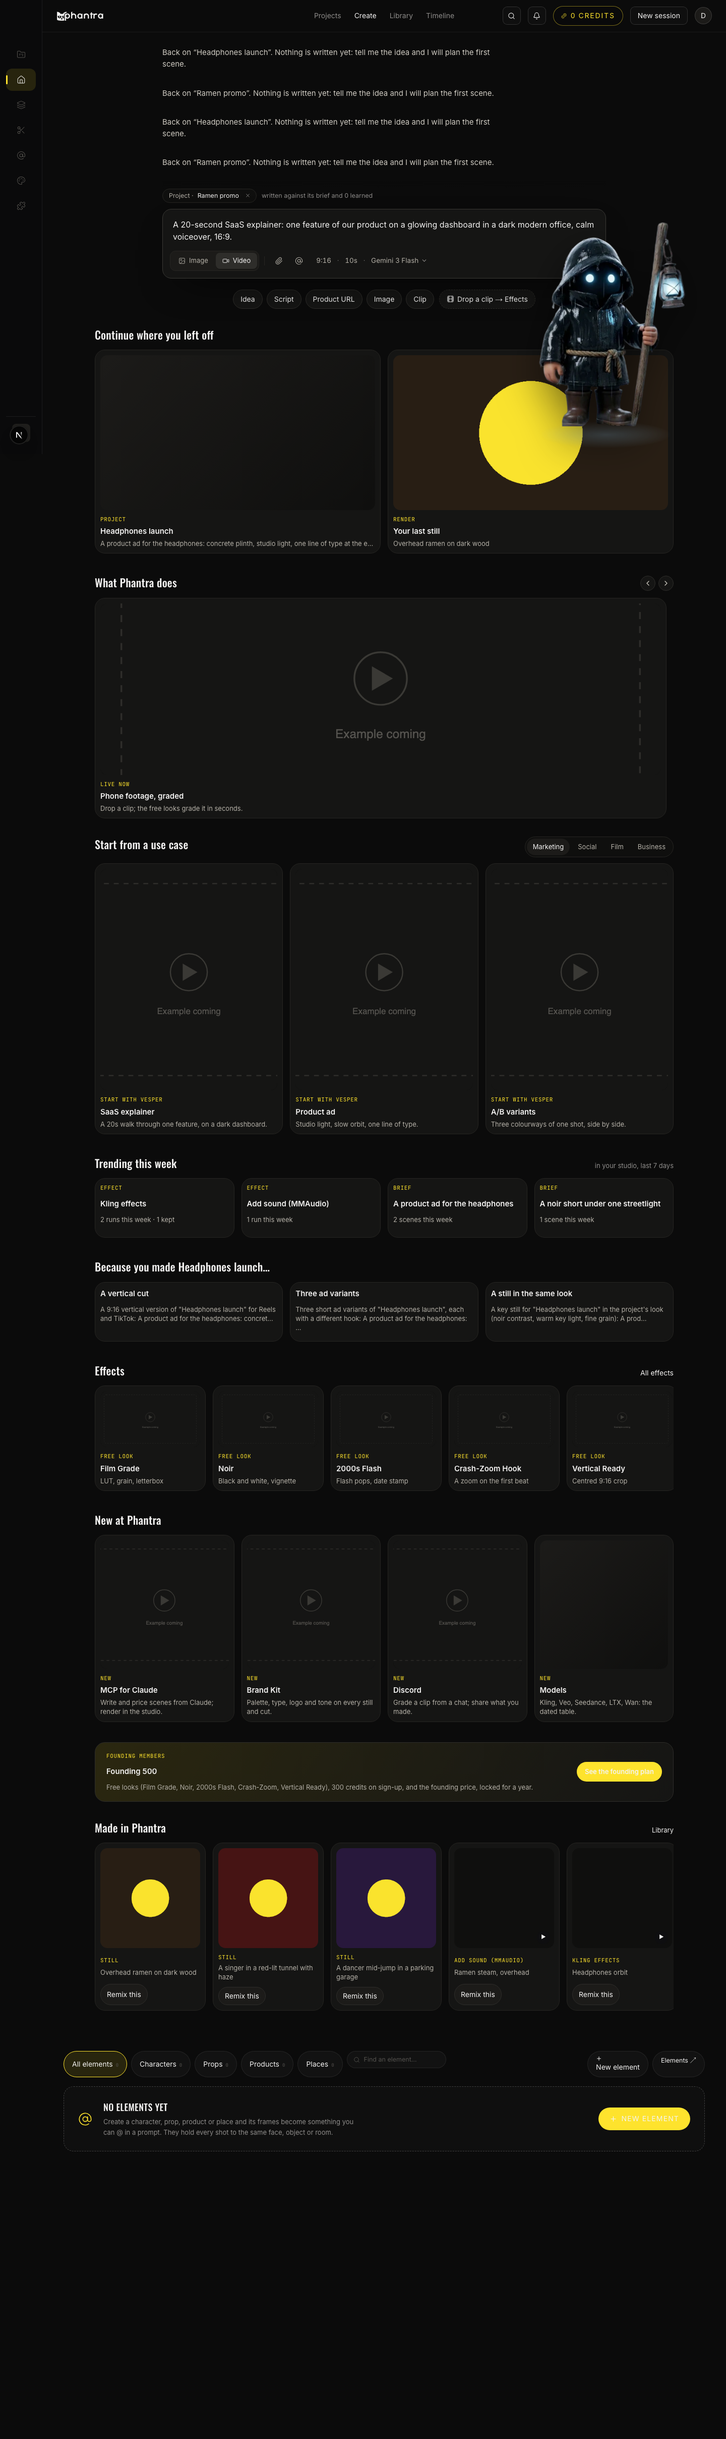
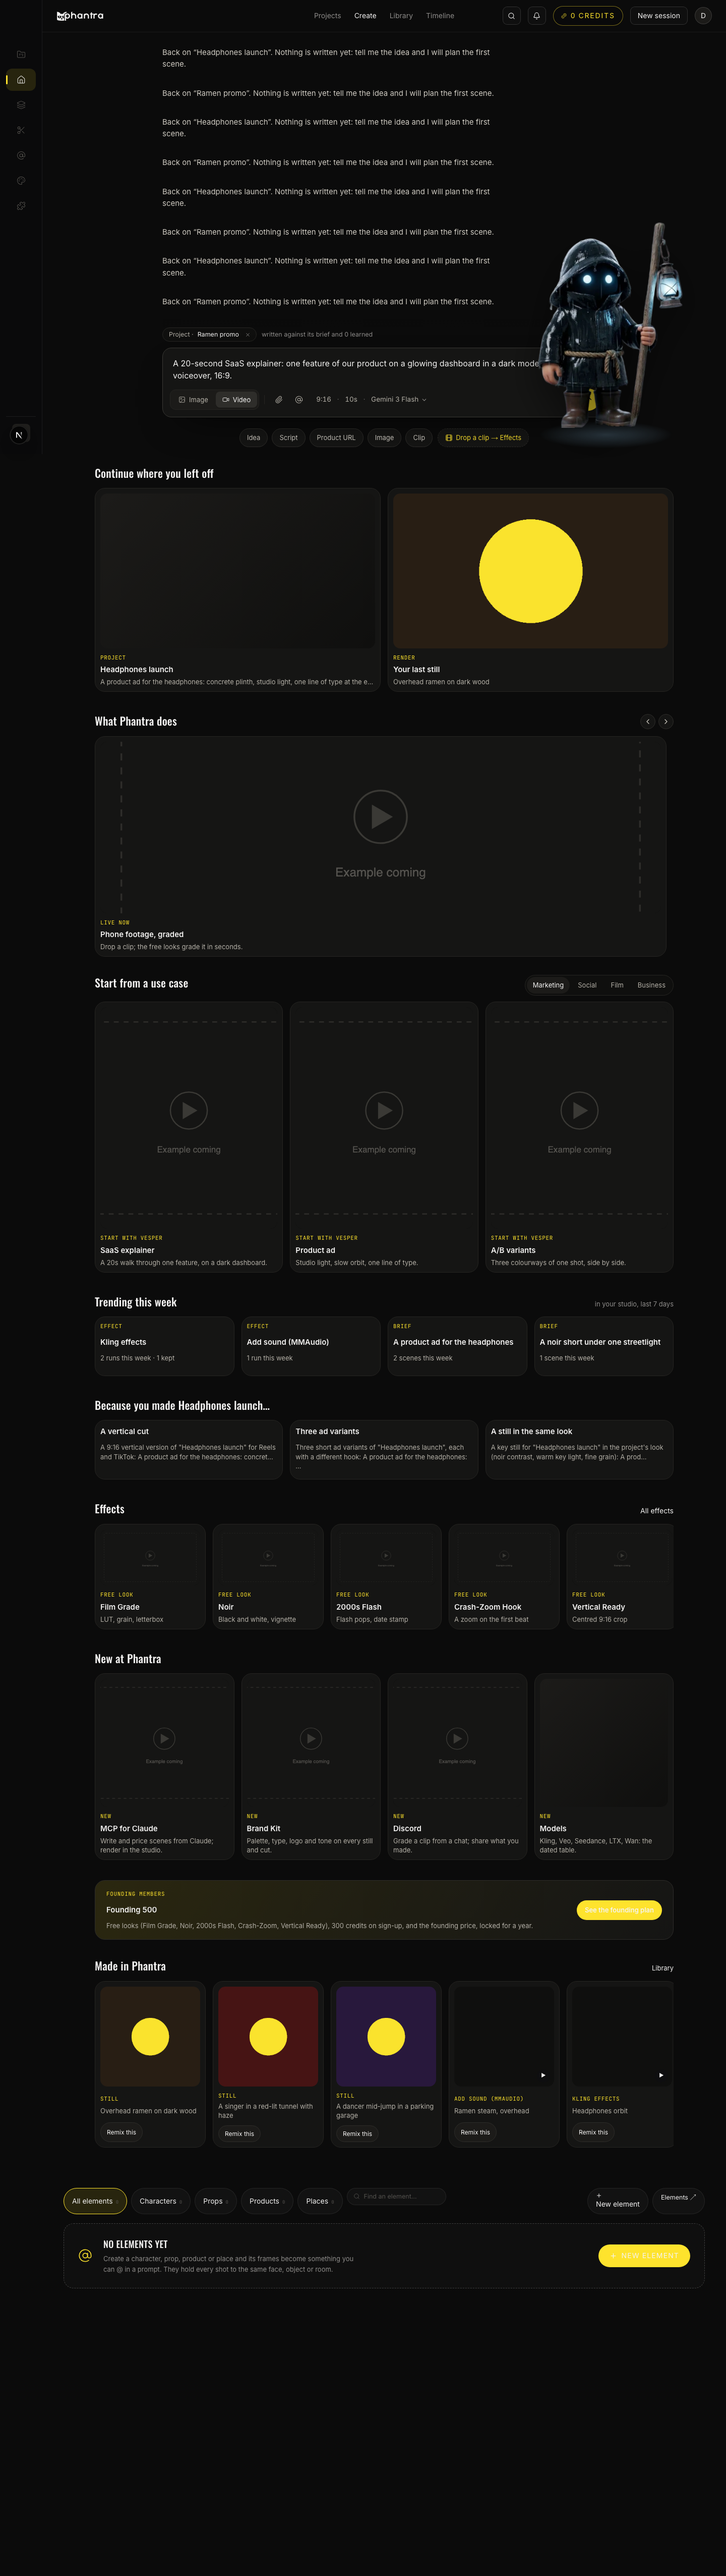
Create page v2: the task file's As built, the Remix button past the shell's rule, stream done
The shell's .zps button { color: inherit } outranked one class, so on a
kit card Remix wore the kit's dark text on a dark pill; the v2 buttons
use two classes and a kit card's Remix wears the kit's primary. Progress
copy ticked, lock removed, screenshots retaken.

diff --git a/web/src/components/studio/create-v2/create-v2.css b/web/src/components/studio/create-v2/create-v2.css
@@ -70,8 +70,8 @@
   flex-wrap: wrap;
   gap: 8px;
 }
-.cv2-chip,
-.cv2-drop {
+.cv2 .cv2-chip,
+.cv2 .cv2-drop {
   display: inline-flex;
   align-items: center;
   gap: 6px;
@@ -86,12 +86,12 @@
   text-decoration: none;
   transition: border-color var(--t), color var(--t), background var(--t);
 }
-.cv2-chip:hover,
-.cv2-drop:hover {
+.cv2 .cv2-chip:hover,
+.cv2 .cv2-drop:hover {
   border-color: var(--edge-hi);
   color: var(--text);
 }
-.cv2-drop {
+.cv2 .cv2-drop {
   border-style: dashed;
   color: var(--signal-hi);
 }
@@ -131,7 +131,7 @@
   display: inline-flex;
   gap: 6px;
 }
-.cv2-arrows button {
+.cv2 .cv2-arrows button {
   width: 30px;
   height: 30px;
   border-radius: var(--rp);
@@ -154,7 +154,7 @@
   background: var(--well);
   border: 1px solid var(--edge-lo);
 }
-.cv2-tabs button {
+.cv2 .cv2-tabs button {
   border: 0;
   background: none;
   color: var(--bone-2);
@@ -164,7 +164,7 @@
   border-radius: var(--rp);
   cursor: pointer;
 }
-.cv2-tabs button[aria-selected="true"] {
+.cv2 .cv2-tabs button[aria-selected="true"] {
   background: var(--raise);
   color: var(--text);
 }
@@ -301,7 +301,10 @@
   place-items: center;
   font-size: 11px;
 }
-.cv2-remix {
+/* `.cv2 .cv2-remix`, not `.cv2-remix`: the shell's `.zps button { color:
+   inherit }` outranks one class, and on a kit card the button then wore
+   the kit's dark text on its dark pill (2026-10-22) */
+.cv2 .cv2-remix {
   justify-self: start;
   padding: 6px 12px;
   border-radius: var(--rp);
@@ -312,9 +315,14 @@
   font-size: 12px;
   cursor: pointer;
 }
-.cv2-remix:hover {
+.cv2 .cv2-remix:hover {
   border-color: var(--signal);
   color: var(--signal-hi);
+}
+.cv2 .cv2-card.kit .cv2-remix {
+  background: var(--kit-primary, var(--raise));
+  border-color: var(--kit-primary, var(--edge));
+  color: var(--kit-background, var(--text));
 }
 
 /* the brand kit badge: a card with a kit previews in the kit's roles */

diff --git a/docs/tasks/task-create-page-v2.md b/docs/tasks/task-create-page-v2.md
@@ -1,0 +1,103 @@
+# Task: the Create page, v2 (group 4 of `task-overnight-2026-10-22.md`)
+
+**Mike's call (2026-10-22):** restructure `/studio` along Runway / Higgsfield lines, keep a
+**Trending this week** row, a **personalized row** and a **brand kit badge**, and put **no prices on
+any Create page card** (the priced card before a spend still shows its price). Everything behind a
+flag, off by default, no renders, no spend.
+
+Built overnight on `claude/overnight-create-page`; "As built" at the end. Nothing rendered or spent.
+
+## What it is
+
+Behind the `create_v2` capability (`GET /api/capabilities`; `PHANTRA_CREATE_V2=1` on the
+deployment turns it on, the `DEV_TOOLS` shape), `/studio` is, top to bottom:
+
+1. **The Vesper bar first**: the composer box exactly as it is, with input chips under it
+   (Idea · Script · Product URL · Image · Clip) that focus or pre-fill the box, attach a photo or open
+   the effects door, and a "Drop a clip → Effects" affordance beside them.
+2. **Continue where you left off**: the newest project and the newest render, from the lists the
+   Projects page and the Library already read; hidden on a first visit.
+3. **A launch carousel** of live features only (graded phone footage, a vertical cut, an ad from a
+   link); no "coming soon".
+4. **Use-case tabs** Marketing · Social · Film · Business, three cards each; a card fills the box with
+   a brief and focuses it, never sends.
+5. **Trending this week**: `GET /api/trending`, this account's own week.
+6. **Because you made <project>…**: three next things from the newest project's brief and look.
+7. **The effects strip**: the six free looks (group 2's names) and the first six live effects off the
+   table; "All effects" opens the Effects tab when `effects_tab` is on, else the composer's gallery.
+8. **New at Phantra**: MCP for Claude, Brand Kit, Discord, Models.
+9. **One Founding 500 banner**, its numbers placeholders in `FOUNDING_500` (`web/src/lib/create-v2.ts`).
+10. **Made in Phantra**: the account's renders (starred first) with **Remix this**: a still is attached
+    to the box with "Remix this: <prompt>", a clip opens the effects gallery on it.
+
+With the flag off the page is the component tree it was: the one change to `page.tsx` is a
+`{caps.create_v2 === true ? <CreateV2 …/> : null}` branch between the composer and the elements
+shelf, which `web/tests/create-v2.test.mjs` pins (imported once, tested once, drawn once, nothing
+else of it in the file, no send inside the branch).
+
+## Files
+
+- `app/api.py`: the `create_v2` capability; `GET /api/trending`.
+- `src/trending.py`: the week's effects (from `generations.params_json`'s `effect`), briefs
+  (`shoot_concepts.spark`) and kept / discarded / edited counts (`output_events`), over seven days,
+  for ONE account. `tests/test_trending.py`.
+- `web/src/lib/create-v2.ts`: the pure parts (chips, use cases, trend cards, continue and personal
+  rows, the looks, the New tiles, `FOUNDING_500`, `kitPalette` / `kitVars`, `SECTIONS`); no imports.
+- `web/src/components/studio/create-v2/cards.ts`: every card, with `createElement` so node renders
+  them; `create-v2.tsx`: the sections and their reads; `create-v2.css`.
+- `web/src/lib/showcase.ts` and `web/public/showcase/placeholder/still.svg`: byte for byte the
+  Effects tab stream's (PR #436), so the branches merge clean. `web/public/showcase/manifest.json`:
+  version 1, every Create key and the Effects tab's effect keys, all on the placeholder until group 12
+  fills it.
+- `web/tests/create-v2.test.mjs`, `web/tests/showcase.test.mjs`, `web/tests/_resolve-ts.mjs` (a
+  resolve hook so node can load a component file that imports its neighbours without an extension).
+
+## Trending: why it is this account's week, not the studio's
+
+`tests/test_tenancy.py` fails any statement on an owned table that does not name `account_id`, and
+`src/outcomes.py` reads "per account, by week, never averaged across accounts". A studio-wide
+"most used" would need a shared read nothing here may make, so the row is **"Trending this week ·
+in your studio"** and the answer says `scope: "account"`. If Mike wants a cross-account row later, it
+needs its own rule (an aggregate with no row-level read, listed in the tenancy test's exempt list).
+
+## The brand kit badge
+
+When the composer's project has a kit (`GET /api/projects/{id}/brand-kit`), every card gets the kit's
+palette roles as CSS variables **on that card alone** (`--kit-primary`, `--kit-accent`,
+`--kit-background`, `--kit-text`; a role the kit did not fill is left to the studio's palette) and a
+"Kit: <name>" badge; the card previews in the kit's colours. Without a kit a card carries no kit
+colour at all; the node test renders every card both ways and asserts exactly that.
+
+## No prices
+
+No card reads `credits` off anything it is handed. The node test renders every card with a priced
+effect (68 credits) and a priced showcase item (87) and asserts no "credit", no 68 / 87 and no "$" in
+the markup. The one card that may say "credits" is the Founding banner's sign-up GRANT (the offer's
+copy, placeholder numbers Mike edits), never a price; the test pins that too.
+
+## As built (2026-10-22)
+
+- Backend first: `src/trending.py` + route + `tests/test_trending.py` (4 tests), ruff clean, the
+  tenancy route and SQL audits green.
+- Then the page: typecheck, `npm run build` and `node --test tests/*.test.mjs` (263 tests) pass.
+- Verified by running it (API on 8004 against a throwaway schema with every spend key blanked and a
+  fake `FAL_KEY`; studio on 3004 at `create-page.localhost`; a seeded account with two projects, a
+  Gygler kit on one, six renders, three effect runs, three scenes). Playwright (the venv's Chromium)
+  took the full-page captures and drove the checks; the built-in Browser pane cannot save a PNG, so
+  the files came from Playwright:
+  - `docs/qa/screens-2026-10-22/create-v2.png` (flag on, project with the kit: all ten sections, 38
+    cards, every one wearing "Kit: Gygler"), `create-v2-nokit.png` (same sections, no kit colour on any
+    card), `create-v2-390.png` (phone width, no horizontal scroll), `create-v1.png` (flag off: the
+    current page, no v2 section in the DOM).
+  - A chip ("Script") and a use-case card only filled the box; no POST reached `/api/creative-guide`,
+    `/api/scenes/run`, `/api/effects/run`, `/api/generate/run` or any approve during the whole walk.
+  - Every section's text was checked for "credit" and "$": only the Founding banner's grant line.
+- Two things the walk found and fixed: a grid section's `min-width: auto` widened the page to
+  2570px at 390px (rows now scroll); the shell's `.zps button { color: inherit }` outranked the
+  Remix button's colour, so on a kit card it was dark on dark (two-class selectors now, and the kit
+  card's Remix wears the kit's primary).
+- Not verified: the Effects tab door (`effects_tab` on; that stream's branch, #436, is not merged
+  here), real showcase media (group 12 fills the manifest), the connector / Desktop surfaces
+  (untouched), and the full pytest suite (the parent runs it).
+- Local only: this worktree's `web/node_modules` is a real `npm ci` (the shared symlink lacked
+  `react-resizable-panels` and Turbopack refuses a symlinked node_modules outside the project root).

diff --git a/docs/tasks/overnight-2026-10-22/progress-create-page.md b/docs/tasks/overnight-2026-10-22/progress-create-page.md
@@ -2,5 +2,7 @@
 
 Ticked here, never in `docs/tasks/task-overnight-2026-10-22.md`.
 
-- [ ] Rebuild `/studio` behind flag `create_v2` (ten sections, no prices on any card; typecheck and build pass; screenshots with the flag on and off)
-- [ ] Brand kit badge: cards preview in the kit's palette roles when the active project has a kit (node test with and without a kit)
+- [x] Rebuild `/studio` behind flag `create_v2` (ten sections, no prices on any card; typecheck and build pass; screenshots with the flag on and off)
+- [x] Brand kit badge: cards preview in the kit's palette roles when the active project has a kit (node test with and without a kit)
+
+Done 2026-10-22; see `docs/tasks/task-create-page-v2.md` (As built) and `docs/qa/screens-2026-10-22/create-v*.png`.
